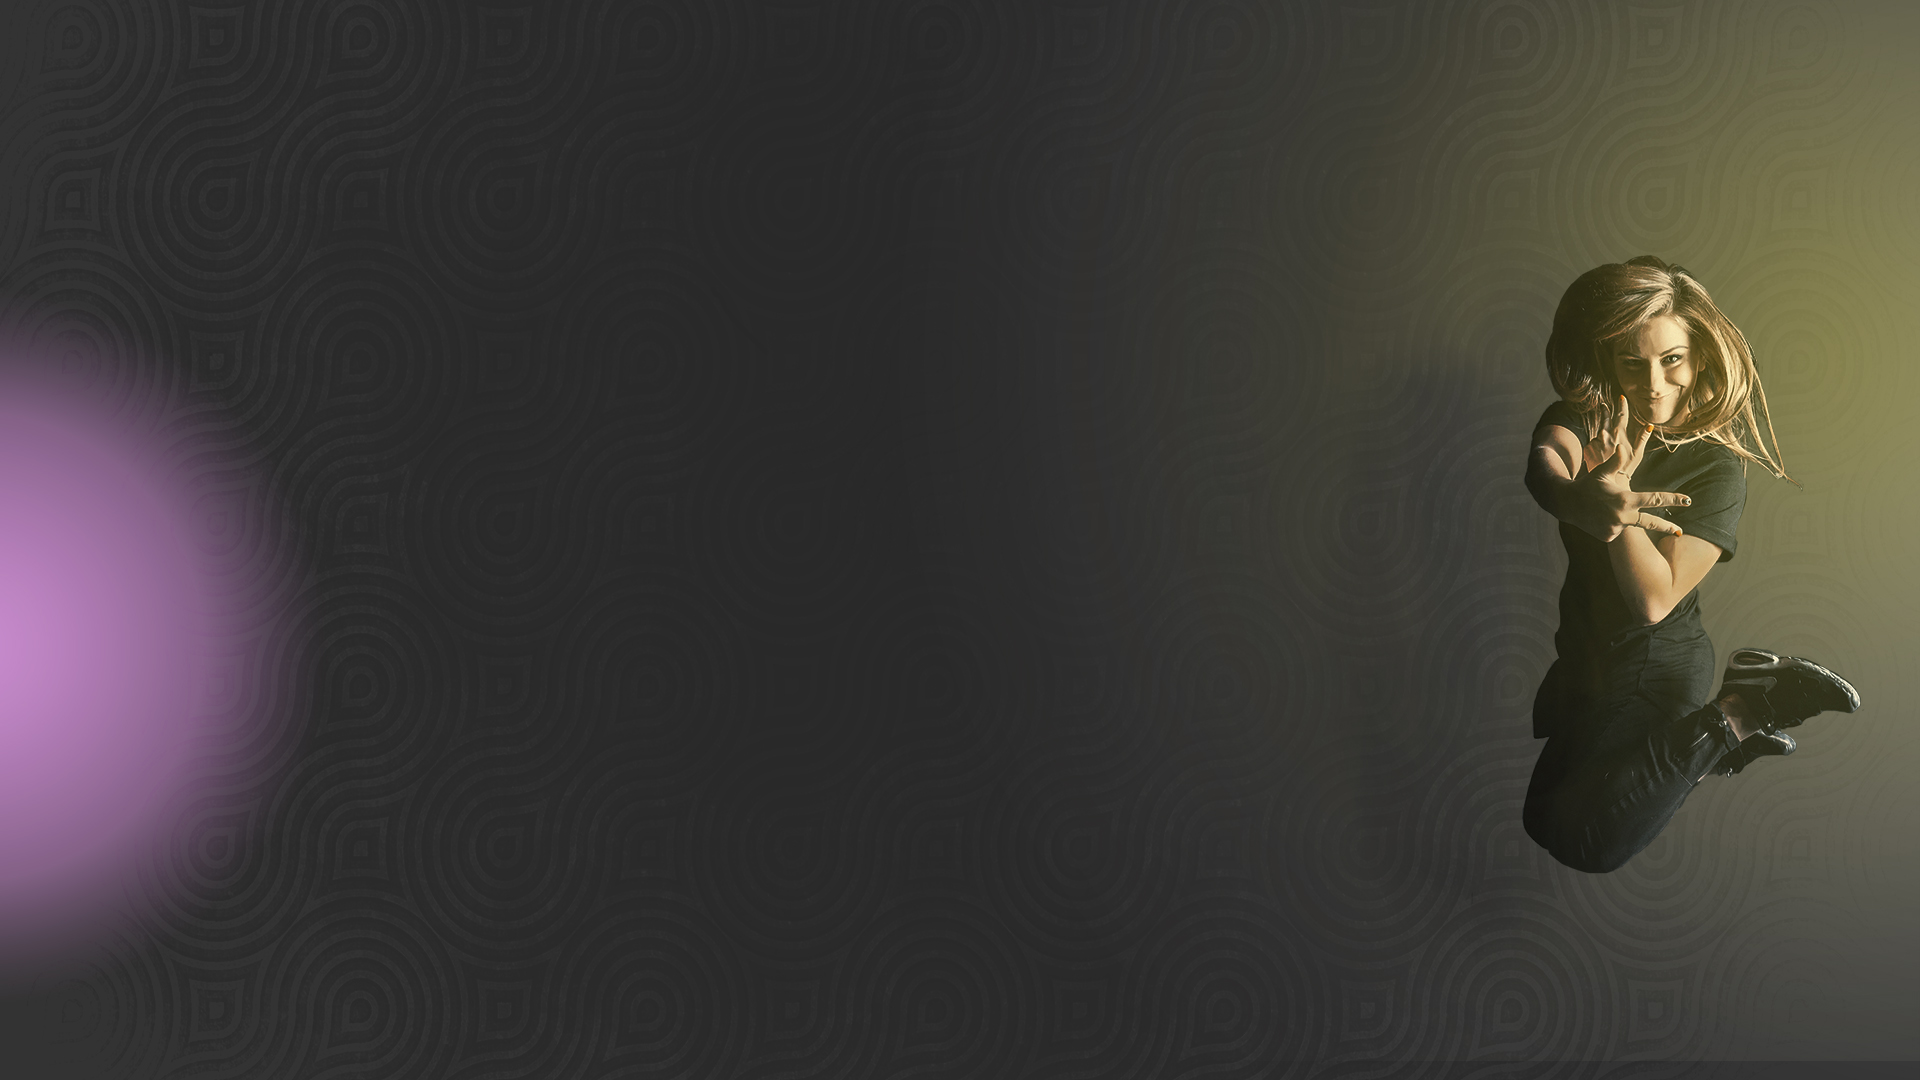
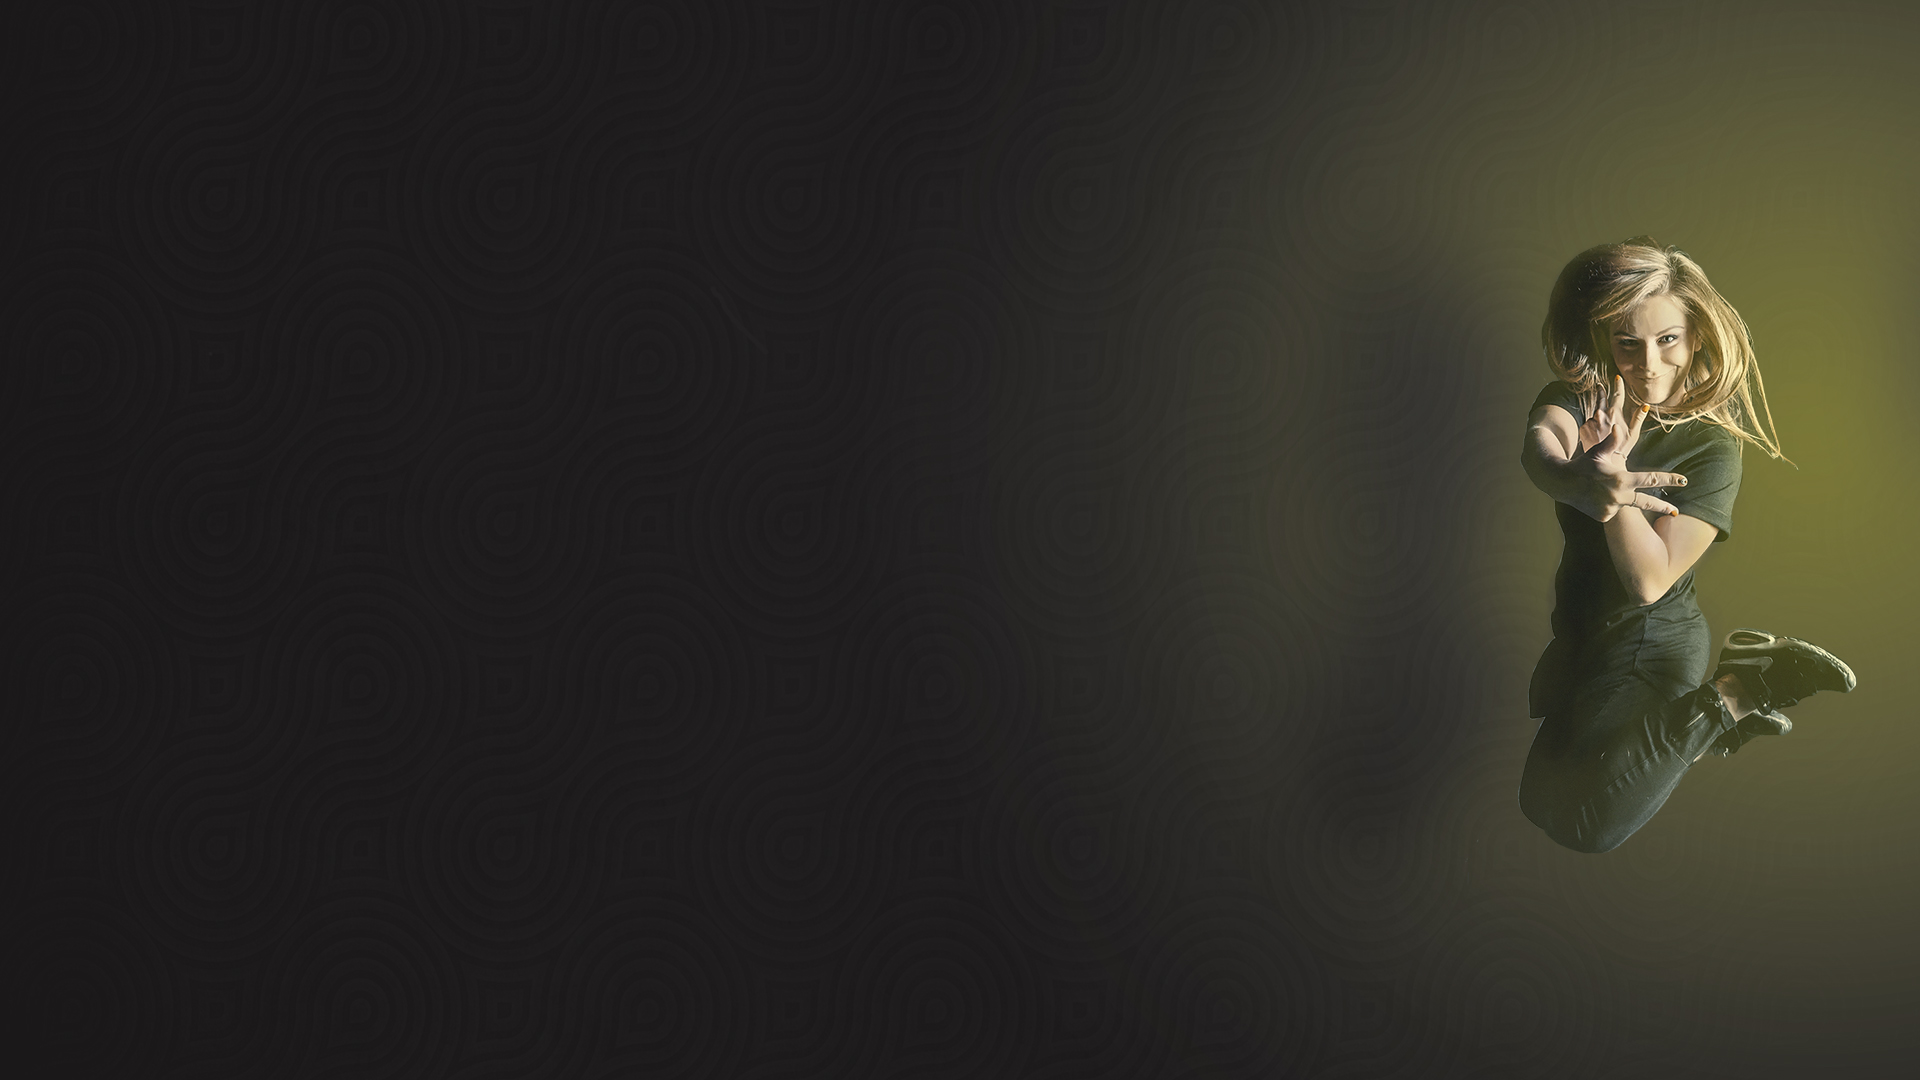
upd

diff --git a/index.html b/index.html
@@ -84,7 +84,7 @@
 
 	</header>
 
-<section class="main_box" style=" background-image: url(images/PHOT-35.jpg);">
+<section class="main_box" style=" background-image: url(images/PHOT-35.jpg); background-attachment: fixed;">
 
 <div class="container">
 	<div class="col-lg-12">

diff --git a/css/main.css b/css/main.css
@@ -118,6 +118,7 @@ position: relative;
 .second_box {
  background-image: url(img/blond.jpg); 
       background-size: cover;
+      background-attachment: fixed;
 }
 .second_text {
   width: 49%;
